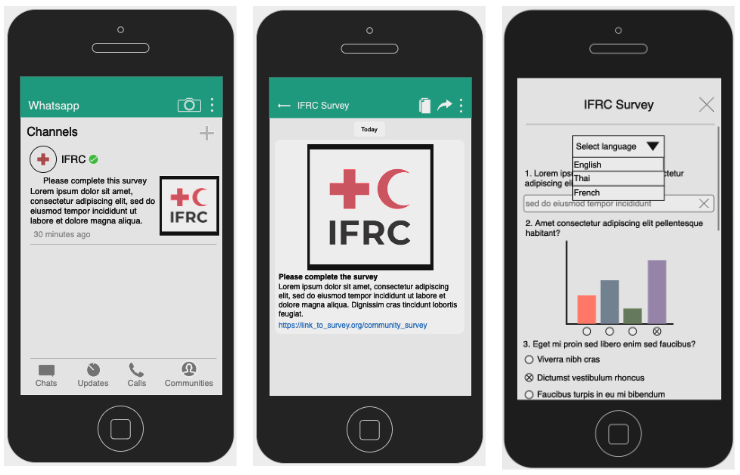
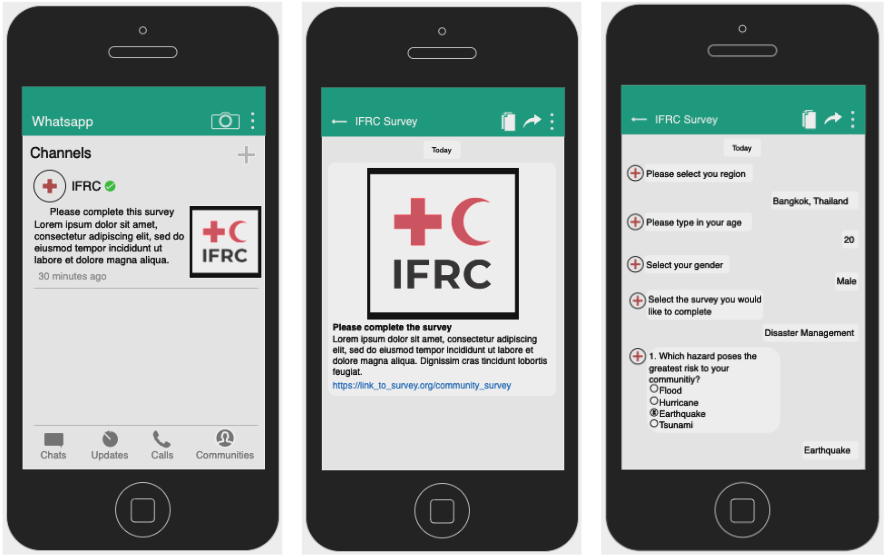
Changed prototype image

diff --git a/UIdesign.html b/UIdesign.html
@@ -147,8 +147,7 @@
         <p>The survey is done on whatsapp channel. The user will receive a message to complete 
           the survey. The survey will be done in a conversational way, where whatsapp channel will send the question 
           and the user will answer the question. Questions allow users to answer in different formats such as text, 
-          multiple choice or even interacting with the questions itself. Furthermore, the survey will have a feature 
-          that allows the user to select languages.
+          multiple choice or even interacting with the questions itself.
         </p>
         <img src="/assets/img/UIDesign/prototype-survey.png" class="mx-auto d-block" alt="prototype-survey" width="60%">
         <p class="text-center" style="color: #71797E;">Survey prototype</p>
